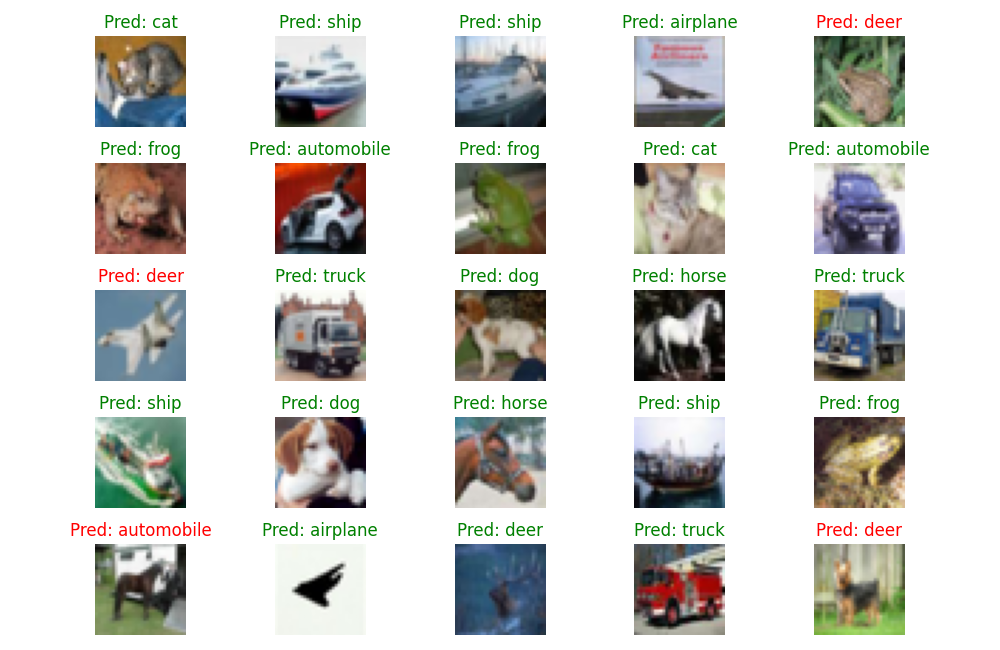
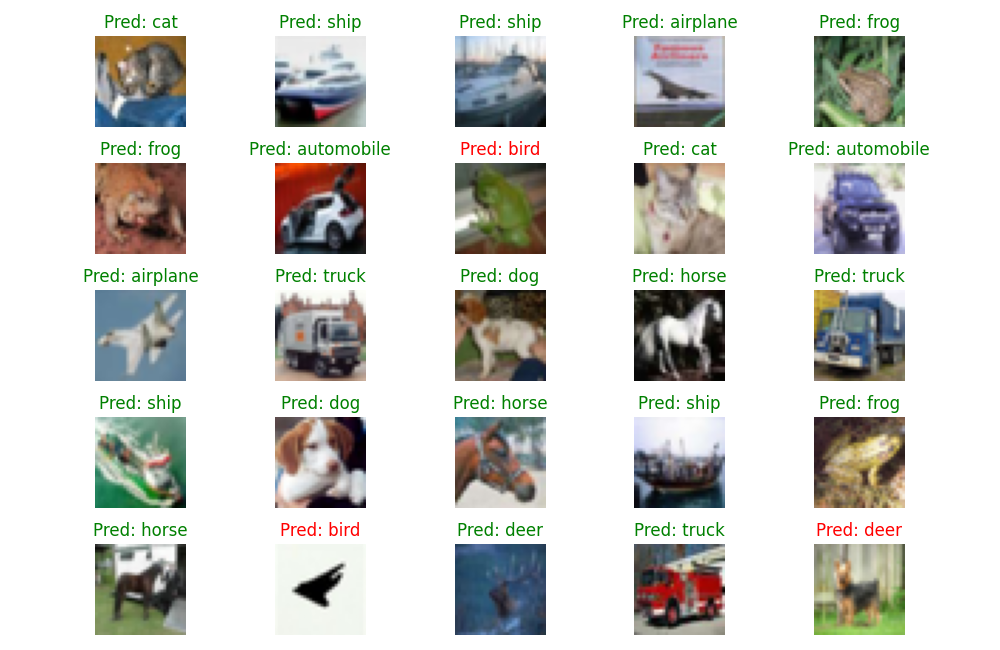
Implemented FGSM attack

diff --git a/train.py b/train.py
@@ -11,9 +11,9 @@ from torch.utils.data import DataLoader
 from torchvision.datasets import CIFAR10
 
 from models import CNN, ResNet18, FC
-from utils import save_model, plot_results, train_iter, test_model, get_optimizer, visualize_results
+from utils import save_model, load_model, plot_results, train_iter, test_model, get_optimizer, visualize_results
 
-
+from math import inf
 
 def main(args):
     print('Training...')
@@ -70,6 +70,7 @@ def main(args):
     # Initialize a progress bar for tracking the progress of epochs
     pbar = tqdm.trange(args.epochs)
 
+    min_loss = inf
     # Loop through the specified number of epochs
     for epoch in pbar:
         # Create a progress bar for the batches in the training loop, set leave=False to avoid cluttering output
@@ -102,7 +103,12 @@ def main(args):
         plot_results(losses_train, losses_test, acc_train, acc_test, args)
 
         # To do 6
-        save_model(model, args)
+        if loss < min_loss:
+            min_loss = loss
+            best_model = model.state_dict()
+
+        save_model(best_model, args)
+        model = load_model(model, args.path)
         visualize_results(x_test, y_test, model, device, args)
 
     # Save the final results 

diff --git a/attack_utils.py b/attack_utils.py
@@ -36,9 +36,12 @@ class FastGradientSignMethod:
         """
         # initialize the perturbation delta to zero, and require gradient for optimization
         delta = torch.zeros_like(x, requires_grad=True)
+        f_x = self.model(x+delta)
+        criterion = nn.CrossEntropyLoss()
+        loss = criterion(f_x, y)
+        loss.backward()
+        perturbation = self.eps * delta.grad.data.sign()
 
-        ## To do 12
-        raise NotImplementedError
         return perturbation
 
 

diff --git a/run_xp.py b/run_xp.py
@@ -1,11 +1,10 @@
 import os
 
 # Define the values of eps
-## To do 14
-eps_values = []
+eps_values = [1e-1,1e-2,1e-3]
 
 # Loop through each value and execute the script
 for eps in eps_values:
     print(f"Running evaluate.py with eps={eps}")
-    command = f"python evaluate.py --path base --model cnn --attack fgsm --eps {eps}"
+    command = f"python evaluate.py --path cnn --model cnn --attack fgsm --eps {eps}"
     os.system(command)
